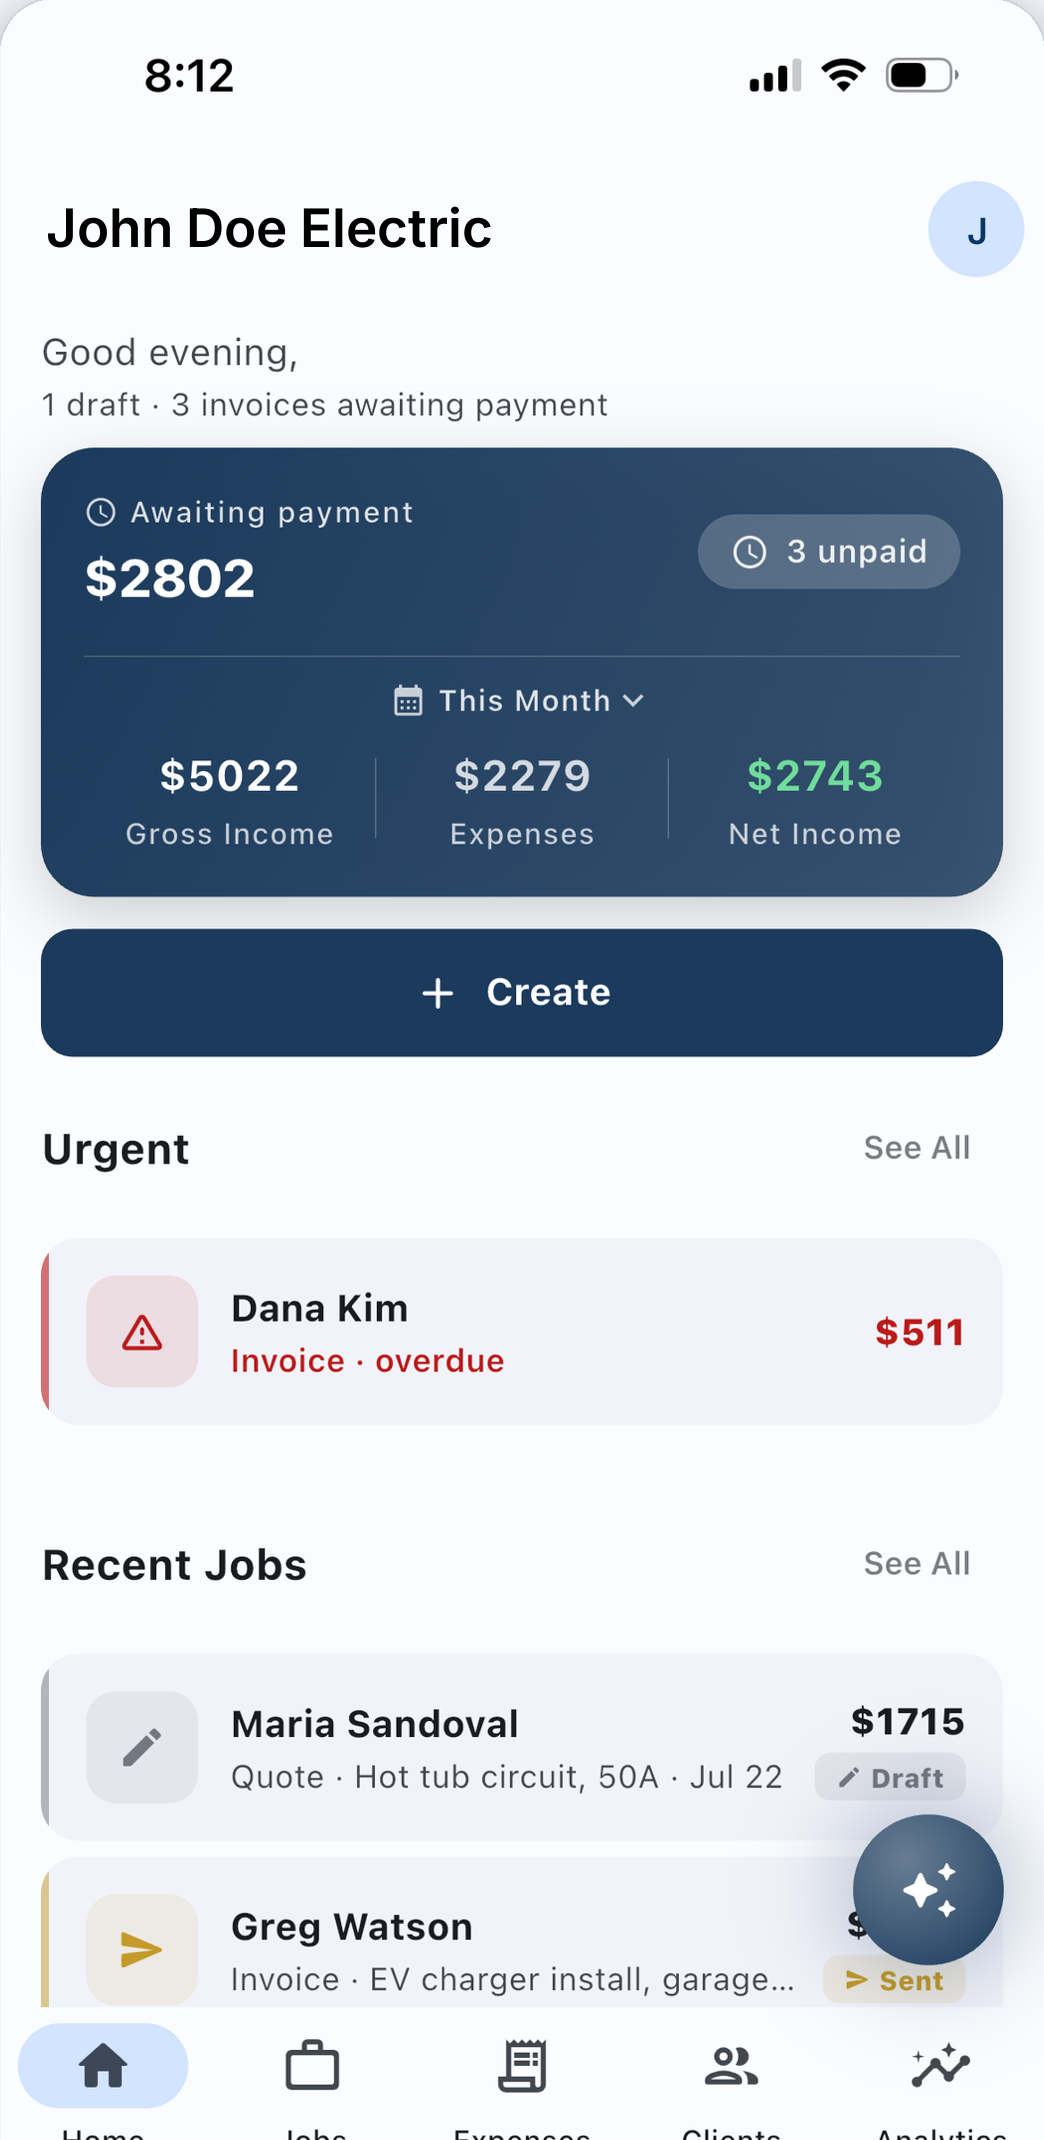
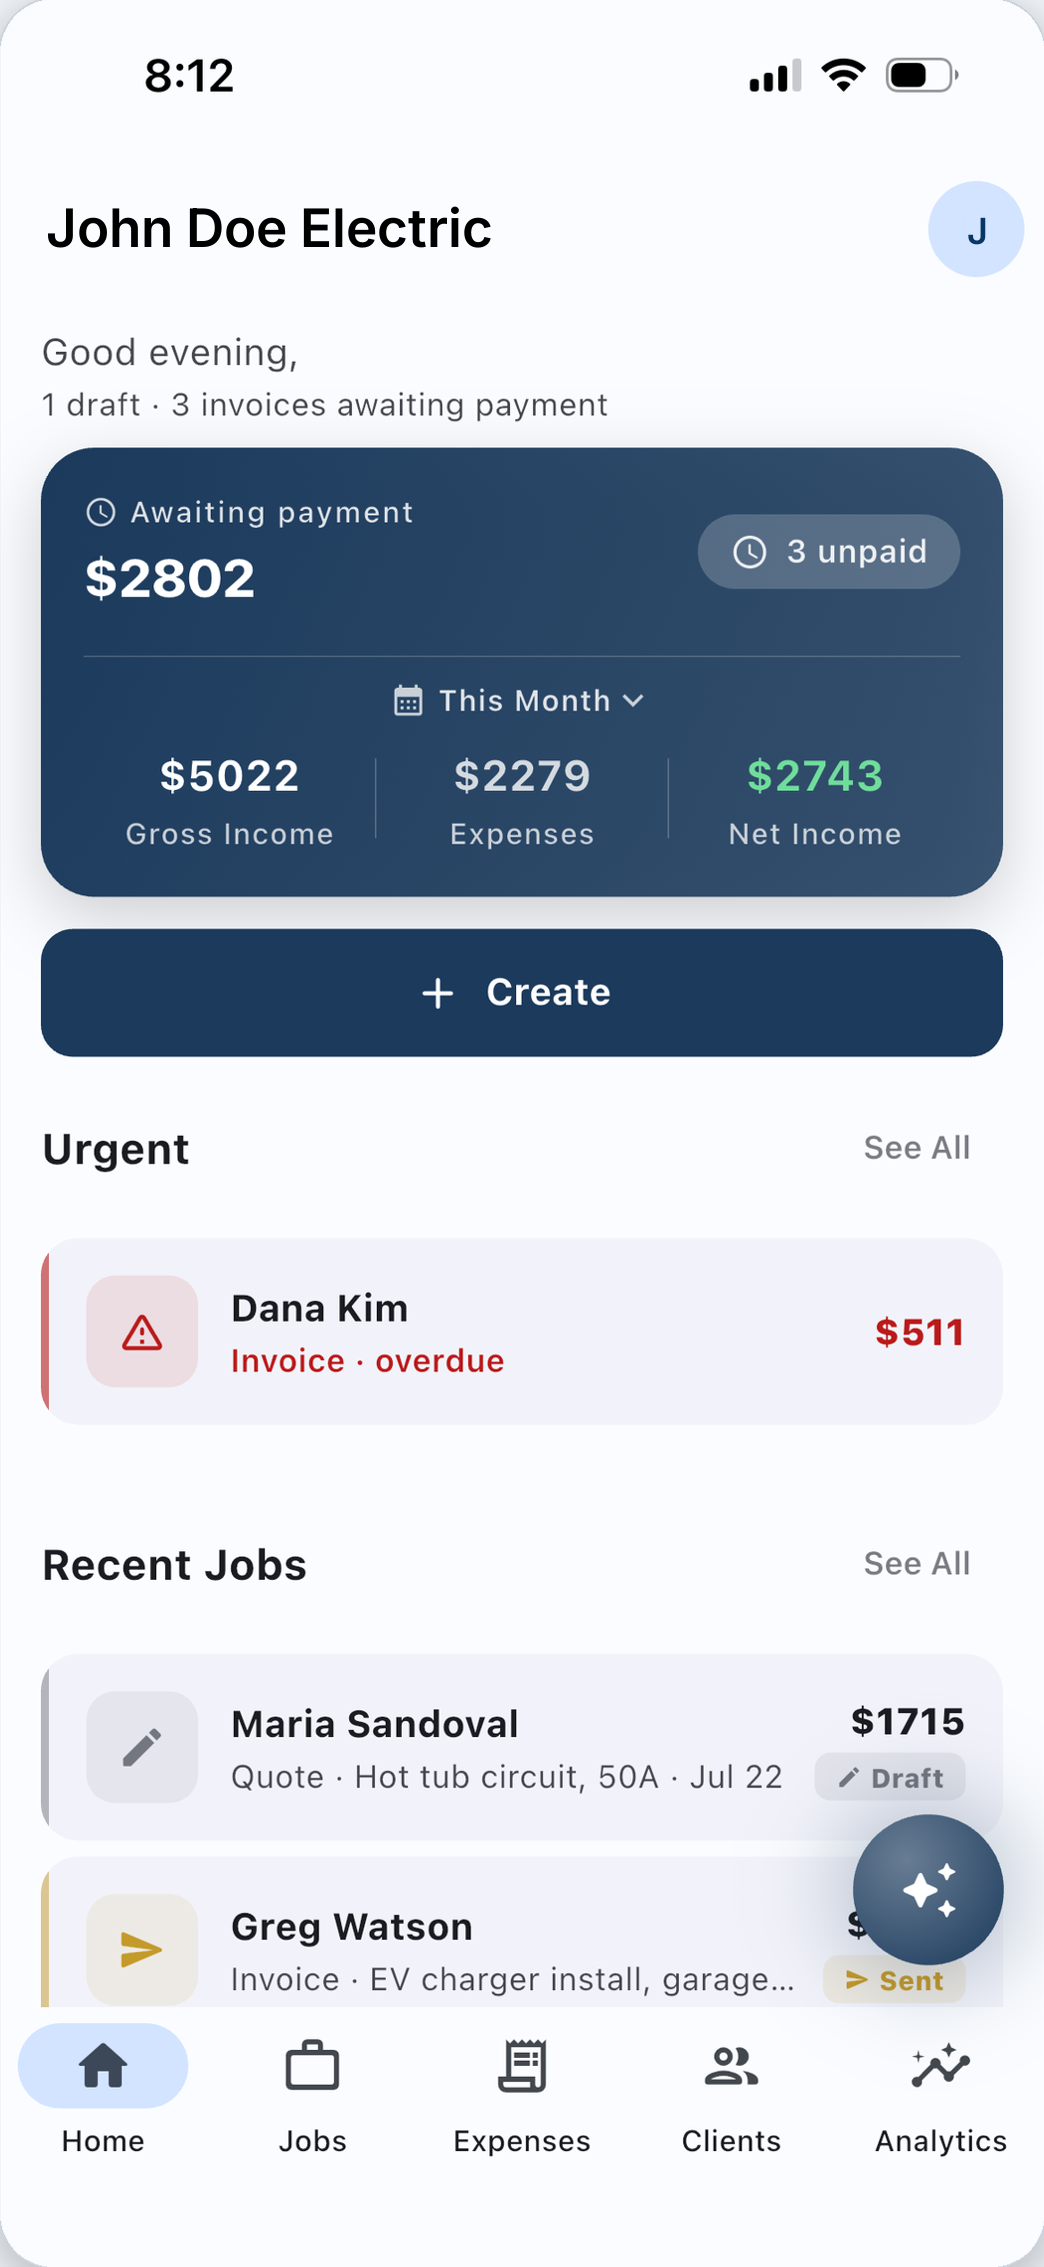
Homepage phones: full screen height, tab bar no longer cut
The v3 phone images were 2140px crops of 2338px screens, ending halfway
through the tab-bar labels; visible on the devices section. Re-cut all
six from the store originals at full screen height (trimmed to the
screen's bottom edge), bumped the phone aspect ratio and image
attributes to match, anchored object-fit to the top so no box crops the
bottom again, and refreshed the cache-busters.

diff --git a/index.html b/index.html
@@ -25,7 +25,7 @@
   <link rel="preconnect" href="https://fonts.googleapis.com">
   <link rel="preconnect" href="https://fonts.gstatic.com" crossorigin>
   <link rel="stylesheet" href="https://fonts.googleapis.com/css2?family=Inter+Tight:wght@700;800&family=Inter:wght@400;500;600&display=swap">
-  <link rel="preload" as="image" href="/screenshots/v3/voice.webp?v=20260904" type="image/webp" fetchpriority="high">
+  <link rel="preload" as="image" href="/screenshots/v3/voice.webp?v=20260908" type="image/webp" fetchpriority="high">
   <link rel="icon" type="image/png" href="/picotally-icon.png">
   <link rel="apple-touch-icon" href="/picotally-icon.png">
 
@@ -162,11 +162,11 @@
 
     /* ---------- Phone ---------- */
     .phone {
-      width: min(380px, 86vw); aspect-ratio: 1044 / 2140; border-radius: 40px; overflow: hidden;
+      width: min(380px, 86vw); aspect-ratio: 1044 / 2267; border-radius: 40px; overflow: hidden;
       background: #fff; border: 1px solid rgba(11,26,45,0.08); box-shadow: var(--shadow-xl);
       position: relative;
     }
-    .phone img { width: 100%; height: 100%; object-fit: cover; }
+    .phone img { width: 100%; height: 100%; object-fit: cover; object-position: top; }
     .phone-sm { width: min(340px, 82vw); }
     .hero .phone { width: min(400px, 86vw); aspect-ratio: 1044 / 1900; border-bottom-left-radius: 0; border-bottom-right-radius: 0; }
     .hero .phone img { object-position: top; }
@@ -333,8 +333,8 @@
         </div>
         <div class="phone">
           <picture>
-            <source srcset="/screenshots/v3/voice.webp?v=20260904" type="image/webp">
-            <img src="/screenshots/v3/voice.png?v=20260904" width="1044" height="2140" fetchpriority="high"
+            <source srcset="/screenshots/v3/voice.webp?v=20260908" type="image/webp">
+            <img src="/screenshots/v3/voice.png?v=20260908" width="1044" height="2267" fetchpriority="high"
                  alt="PicoTally writing a $411 invoice for Tom Beckett from a spoken command, with the voice assistant listening at the bottom of the screen.">
           </picture>
         </div>
@@ -390,8 +390,8 @@
         <div class="moment-shot">
           <div class="phone phone-sm">
             <picture>
-              <source srcset="/screenshots/v3/invoice.webp?v=20260904" type="image/webp">
-              <img src="/screenshots/v3/invoice.png?v=20260904" width="1044" height="2140" loading="lazy"
+              <source srcset="/screenshots/v3/invoice.webp?v=20260908" type="image/webp">
+              <img src="/screenshots/v3/invoice.png?v=20260908" width="1044" height="2267" loading="lazy"
                    alt="A finished PicoTally invoice for John Doe Electric with the business header, line items, total and balance due.">
             </picture>
           </div>
@@ -413,8 +413,8 @@
         <div class="moment-shot">
           <div class="phone phone-sm">
             <picture>
-              <source srcset="/screenshots/v3/receipt.webp?v=20260904" type="image/webp">
-              <img src="/screenshots/v3/receipt.png?v=20260904" width="1044" height="2140" loading="lazy"
+              <source srcset="/screenshots/v3/receipt.webp?v=20260908" type="image/webp">
+              <img src="/screenshots/v3/receipt.png?v=20260908" width="1044" height="2267" loading="lazy"
                    alt="A scanned Anytown Electric Supply receipt in PicoTally, every line item extracted and tagged as materials, office supplies or personal.">
             </picture>
           </div>
@@ -438,8 +438,8 @@
         <div class="moment-shot">
           <div class="phone phone-sm">
             <picture>
-              <source srcset="/screenshots/v3/chat.webp?v=20260904" type="image/webp">
-              <img src="/screenshots/v3/chat.png?v=20260904" width="1044" height="2140" loading="lazy"
+              <source srcset="/screenshots/v3/chat.webp?v=20260908" type="image/webp">
+              <img src="/screenshots/v3/chat.png?v=20260908" width="1044" height="2267" loading="lazy"
                    alt="The PicoTally assistant answering who owes the most, listing three customers with amounts and due dates from the books.">
             </picture>
           </div>
@@ -474,8 +474,8 @@
         </div>
         <div class="phone">
           <picture>
-            <source srcset="/screenshots/v3/dashboard.webp?v=20260904" type="image/webp">
-            <img src="/screenshots/v3/dashboard.png?v=20260904" width="1044" height="2140" loading="lazy"
+            <source srcset="/screenshots/v3/dashboard.webp?v=20260908" type="image/webp">
+            <img src="/screenshots/v3/dashboard.png?v=20260908" width="1044" height="2267" loading="lazy"
                  alt="The same books on the phone: awaiting payment, this month's income and expenses, and the urgent list.">
           </picture>
         </div>
